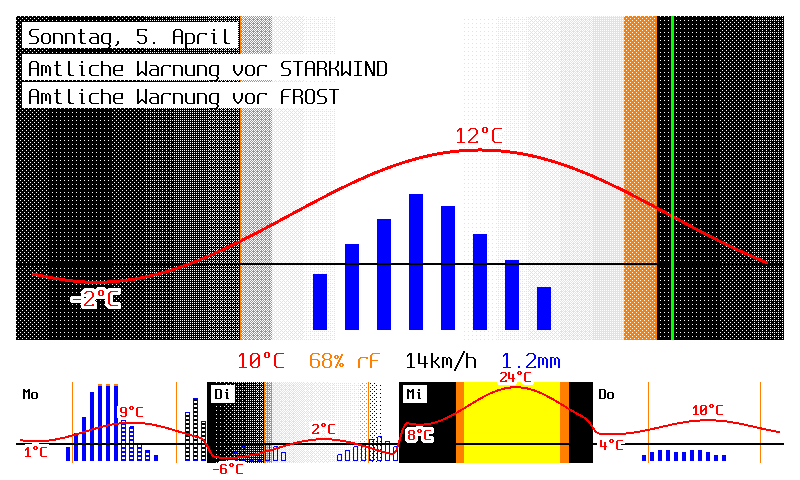
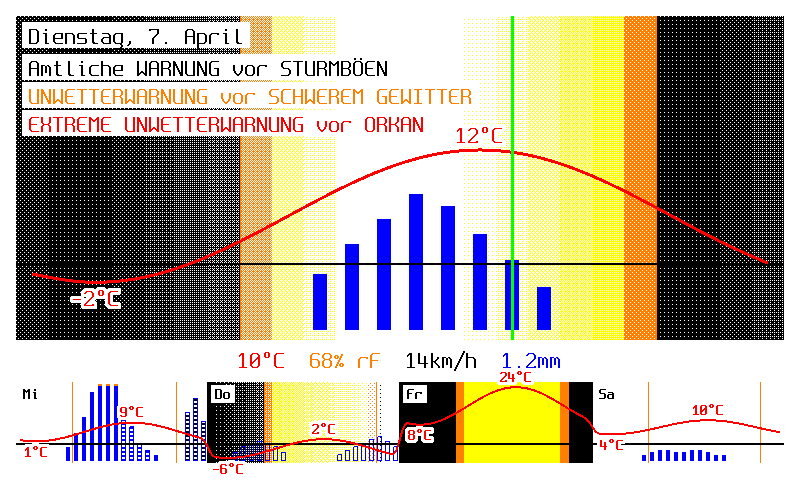
keine Minor Warnings mehr

diff --git a/src/lib/dwdWarnings.js b/src/lib/dwdWarnings.js
@@ -32,7 +32,9 @@ exports.fetchWarnings = async (lat, lon) => {
 
         for (const file of files) {
             const warning = await parseWarningXml(resolve(WARNINGS_DIR, file));
-            if (warning && isAffected(warning, lat, lon)) {
+            if (!warning) continue;
+            const matchedArea = findAffectedArea(warning, lat, lon);
+            if (matchedArea) {
                 warnings.push({
                     event: warning.event,
                     severity: warning.severity,
@@ -40,7 +42,7 @@ exports.fetchWarnings = async (lat, lon) => {
                     description: warning.description,
                     onset: warning.onset,
                     expires: warning.expires,
-                    areaDesc: warning.areaDesc,
+                    areaDesc: matchedArea.areaDesc,
                 });
             }
         }
@@ -55,14 +57,21 @@ exports.fetchWarnings = async (lat, lon) => {
 function parseWarningXml(filePath) {
     return new Promise((resolve) => {
         const parser = new XmlParser();
-        const w = { polygons: [], excludePolygons: [] };
+        const w = { areas: [] };
         let currentTag = '';
+        let inArea = false;
+        let currentArea = null;
         let inGeocode = false;
         let geocodeValueName = '';
 
         parser.on('opentag', (name) => {
             currentTag = name;
-            if (name === 'geocode') inGeocode = true;
+            if (name === 'area') {
+                inArea = true;
+                currentArea = { areaDesc: '', polygons: [], excludePolygons: [] };
+            } else if (name === 'geocode') {
+                inGeocode = true;
+            }
         });
 
         parser.on('text', (text) => {
@@ -72,13 +81,13 @@ function parseWarningXml(filePath) {
             else if (currentTag === 'description') w.description = text;
             else if (currentTag === 'onset') w.onset = text;
             else if (currentTag === 'expires') w.expires = text;
-            else if (currentTag === 'areaDesc') w.areaDesc = text;
-            else if (currentTag === 'polygon') {
-                w.polygons.push(parsePolygon(text));
-            } else if (inGeocode && currentTag === 'valueName') {
+            else if (inArea && currentTag === 'areaDesc') currentArea.areaDesc = text;
+            else if (inArea && currentTag === 'polygon') {
+                currentArea.polygons.push(parsePolygon(text));
+            } else if (inArea && inGeocode && currentTag === 'valueName') {
                 geocodeValueName = text;
-            } else if (inGeocode && currentTag === 'value' && geocodeValueName === 'EXCLUDE_POLYGON') {
-                w.excludePolygons.push(parsePolygon(text));
+            } else if (inArea && inGeocode && currentTag === 'value' && geocodeValueName === 'EXCLUDE_POLYGON') {
+                currentArea.excludePolygons.push(parsePolygon(text));
             }
         });
 
@@ -86,6 +95,10 @@ function parseWarningXml(filePath) {
             if (name === 'geocode') {
                 inGeocode = false;
                 geocodeValueName = '';
+            } else if (name === 'area') {
+                inArea = false;
+                if (currentArea) w.areas.push(currentArea);
+                currentArea = null;
             }
         });
 
@@ -103,13 +116,14 @@ function parsePolygon(text) {
     }).filter(p => !isNaN(p.lat) && !isNaN(p.lon));
 }
 
-function isAffected(warning, lat, lon) {
-    // Punkt muss in mindestens einem Polygon liegen
-    const inside = warning.polygons.some(poly => pointInPolygon(lat, lon, poly));
-    if (!inside) return false;
-    // Punkt darf nicht in einem Exclude-Polygon liegen
-    const excluded = warning.excludePolygons.some(poly => pointInPolygon(lat, lon, poly));
-    return !excluded;
+function findAffectedArea(warning, lat, lon) {
+    for (const area of warning.areas) {
+        const inside = area.polygons.some(poly => pointInPolygon(lat, lon, poly));
+        if (!inside) continue;
+        const excluded = area.excludePolygons.some(poly => pointInPolygon(lat, lon, poly));
+        if (!excluded) return area;
+    }
+    return null;
 }
 
 // Ray-Casting Algorithmus

diff --git a/src/scripts/createDummyData.js b/src/scripts/createDummyData.js
@@ -1,5 +1,5 @@
 /**
- * Erzeugt Dummy-Wetterdaten und schreibt sie nach data/mosmix.json
+ * Erzeugt Dummy-Wetterdaten und schreibt sie nach data/data.json
  * Ausführen mit: node src/scripts/createDummyData.js
  *
  * Szenario (alle Zeichenstile abgedeckt):
@@ -130,8 +130,10 @@ const output = {
     updateTime: new Date().toISOString(),
     coords: { lat: 48.12, lon: 11.78, h: 716 },
     warnings: [
-        { event: 'STARKWIND', severity: 'Minor', headline: 'Amtliche Warnung vor STARKWIND', description: 'Boeen bis 60 km/h', onset: issueTime.toISOString(), expires: null, areaDesc: 'Landkreis Muenchen' },
-        { event: 'FROST', severity: 'Moderate', headline: 'Amtliche Warnung vor FROST', description: 'Tiefstwerte bis -6°C', onset: issueTime.toISOString(), expires: null, areaDesc: 'Landkreis Muenchen' },
+        { event: 'FROST', severity: 'Minor', headline: 'Amtliche WARNUNG vor FROST', description: 'Tiefstwerte bis -3°C', onset: issueTime.toISOString(), expires: null, areaDesc: 'Kreis Starnberg' },
+        { event: 'STURMBÖEN', severity: 'Moderate', headline: 'Amtliche WARNUNG vor STURMBÖEN', description: 'Böen bis 85 km/h', onset: issueTime.toISOString(), expires: null, areaDesc: 'Kreis Starnberg' },
+        { event: 'SCHWERES GEWITTER', severity: 'Severe', headline: 'UNWETTERWARNUNG vor SCHWEREM GEWITTER', description: 'Hagel >2cm, Böen >100 km/h', onset: issueTime.toISOString(), expires: null, areaDesc: 'Kreis Starnberg' },
+        { event: 'EXTREMER ORKAN', severity: 'Extreme', headline: 'EXTREME UNWETTERWARNUNG vor ORKAN', description: 'Böen >140 km/h', onset: issueTime.toISOString(), expires: null, areaDesc: 'Kreis Starnberg' },
     ],
     observation: {
         temperature: 10.1,
@@ -142,7 +144,7 @@ const output = {
     days: result,
 };
 
-const outPath = path.join(__dirname, '../../data/mosmix.json');
+const outPath = path.join(__dirname, '../../data/data.json');
 fs.mkdirSync(path.dirname(outPath), { recursive: true });
 fs.writeFileSync(outPath, JSON.stringify(output));
 console.log(`Dummy data written to ${outPath}`);

diff --git a/src/lib/draw.js b/src/lib/draw.js
@@ -1,6 +1,6 @@
 const { createCanvas, registerFont } = require('canvas');
 const { writeFileSync } = require('fs');
-const { displayColors, showDaysCount, pngTmpFile } = require('../config');
+const { displayColors, showDaysCount, showMinorWarnings, pngTmpFile } = require('../config');
 const { resolve } = require('path');
 const suncalc = require('suncalc');
 
@@ -96,15 +96,22 @@ exports.draw = async (data) => {
     ctx.fillText(dateLabel, dateLabelX, dateLabelY + 22);
 
     // Warnungen unter dem Datum
-    if (warnings.length > 0) {
+    const severityColors = {
+        'Moderate': displayColors.black,
+        'Severe': displayColors.orange,
+        'Extreme': displayColors.red,
+    };
+    const visibleWarnings = warnings.filter(w => showMinorWarnings || w.severity !== 'Minor');
+    if (visibleWarnings.length > 0) {
         ctx.font = `24px ${fontFamily}`;
         let warningY = dateLabelY + 32;
-        for (const w of warnings) {
+        for (const w of visibleWarnings) {
+            const color = severityColors[w.severity] || displayColors.black;
             const warnText = `${w.headline || w.event}`;
             const warnWidth = ctx.measureText(warnText).width;
             ctx.fillStyle = displayColors.white;
             ctx.fillRect(dateLabelX - 6, warningY, warnWidth + 12, 26);
-            ctx.fillStyle = displayColors.black;
+            ctx.fillStyle = color;
             ctx.fillText(warnText, dateLabelX, warningY + 22);
             warningY += 28;
         }

diff --git a/src/config.js b/src/config.js
@@ -4,7 +4,7 @@ exports.updateCronTime = '46 * * * *';
 
 exports.kmlTmpFile = __dirname + '/../data/mosmix.kml';
 exports.kmzTmpFile = __dirname + '/../data/mosmix.kmz';
-exports.jsonTmpFile = __dirname + '/../data/mosmix.json';
+exports.jsonTmpFile = __dirname + '/../data/data.json';
 exports.pngTmpFile = __dirname + '/../data/screen.png';
 exports.bmpTmpFile = __dirname + '/../data/screen.bmp';
 
@@ -19,6 +19,7 @@ exports.displayColors = {
 };
 
 exports.showDaysCount = 5;
+exports.showMinorWarnings = false;
 
 exports.observationEndpoint = "https://opendata.dwd.de/weather/weather_reports/poi/10865-BEOB.csv";
 exports.warningsEndpoint = "https://opendata.dwd.de/weather/alerts/cap/DISTRICT_CELLS_STAT/";

diff --git a/src/scripts/test.js b/src/scripts/test.js
@@ -1,10 +1,5 @@
 const { draw } = require('../lib/draw');
-const data = require('../../data/mosmix.json');
-const { readFileSync } = require('fs');
-const { resolve } = require('path');
+const data = require('../../data/data.json');
 
-let warnings = [];
-try { warnings = JSON.parse(readFileSync(resolve(__dirname, '../../data/warnings.json')).toString()); } catch {}
-
-draw(data, warnings).then(() => console.log('done → data/screen.png'));
+draw(data).then(() => console.log('done → data/screen.png'));
 

diff --git a/src/scripts/test_pi.js b/src/scripts/test_pi.js
@@ -1,5 +1,5 @@
 const { draw } = require('../lib/draw');
-const data = require('../../data/mosmix.json');
+const data = require('../../data/data.json');
 const { convertToBmp, pushToDisplay } = require("../lib/finalize");
 
 draw(data)

diff --git a/CLAUDE.md b/CLAUDE.md
@@ -35,7 +35,7 @@ Lauft auf einem **Raspberry Pi** mit angeschlossenem Display.
 | `src/lib/finalize.js` | PNG→BMP Konvertierung + Display-Push |
 | `src/lib/tools.js` | Hilfsfunktionen (cmd, msToHumanReadable) |
 | `python_src/display_bitmap.py` | BMP aufs E-Ink Display senden |
-| `data/` | Temporare Dateien (mosmix.kml/.kmz/.json, screen.png/.bmp) |
+| `data/` | Temporare Dateien (data.json, mosmix.kml/.kmz, screen.png/.bmp) |
 
 ---
 
@@ -116,7 +116,7 @@ npm start
 ## Datenstruktur
 
 ```js
-// actData (aus data/mosmix.json)
+// actData (aus data/data.json)
 {
   issueTime: "ISO-String",   // Ausgabezeitpunkt des DWD-Modells
   updateTime: "ISO-String",  // Letzter lokaler Abruf
